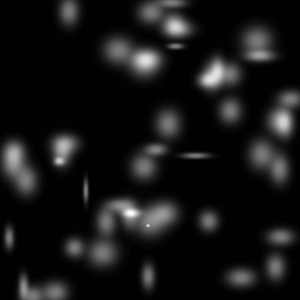
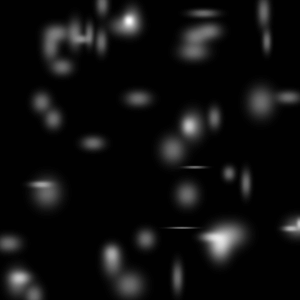
Adding the copied files

diff --git a/dev/NMR_spectrum_generator_v2_Copy1.py b/dev/NMR_spectrum_generator_v2_Copy1.py
@@ -1,0 +1,63 @@
+import numpy as np
+import matplotlib.pyplot as plt
+from matplotlib.backends.backend_agg import FigureCanvasAgg
+
+'the function that creates peaks'
+def peak_generator(points=100, limits=[0,10], grid_density=1000, mode="default", variance=1.0): #As I understand it, we have 100 points, which we will when generating the peaks; however, I am not too sure about the limits. Do the limits constraint the points within that specific graph? Also, could you explain what does "mode" variable actually do?
+    x = np.linspace(limits[0], limits[1], grid_density) 
+    y = np.linspace(limits[0], limits[1], grid_density) #In these two lanes we are creating x and y axis, correct? 
+    x, y = np.meshgrid(x, y)
+    z = np.zeros((points, x.shape[1], x.shape[1])) '(shape, type, order)' #why did you set type and order to x.shape[1]
+    if mode == "default": #why is it so important to have mode in default? 
+        intv = limits[1] - limits[0] #setting the interval, that is the difference of two limits?
+        means = intv*np.random.sample((points, 2)) + limits[0]' multiplying the interval with the numpy.random.sample(100,1) + limits[0]' #by doing so, do we just spread the 100 points we have around the graph? why do we need to add limits to this function?
+        variscale = intv*variance/100. 
+        varis = variscale*np.random.sample((points, 2)) #how is varis different from means? in other words, what does varis do and what does means specifically do in this function?
+        for i, (cn, vn) in enumerate(zip(means, varis)): 
+            fac = ((x - cn[0])**2/(2*vn[0])) + ((y - cn[1])**2/(2*vn[1])) #would it be okay for you to write what the following variables are: cn and vn? 
+            z[i,:,:] = np.exp(-fac)
+        z = np.sum(z,axis=0)
+    else:
+        pass
+    return x, y, z, means, varis
+
+'function that generates spectra'
+def spectra_generator(x, y, z, centers, figsize=3, dpi=100, specfile="100.png", resfile="100-r.png"): 'dpi = dots pe inch = how many poxels the figure comprises
+    fig = plt.figure(figsize=(figsize,figsize), dpi=dpi,frameon=False)'figsize = (3,3)
+    canvas = FigureCanvasAgg(fig) #are such things as FigureCanvasAgg, add_plot are part of the matplolib? 
+    ax = fig.add_subplot(111)
+    fig.tight_layout()
+    fig.subplots_adjust(left=0.0,right=1.0,top=1.0,bottom=0.0,hspace=0.0,wspace=0.0)
+    ax.axes.get_xaxis().set_visible(False) 
+    ax.axes.get_yaxis().set_visible(False)
+    ax.contourf(x,y,z, 100, cmap="gray")
+    ax.axis('off')
+    fig.savefig(specfile, bbox_inches='tight', pad_inches=0.0)
+    fig.canvas.draw()
+    s, (width, height) = canvas.print_to_buffer()
+    X = np.frombuffer(s, np.uint8).reshape((height, width, 4))
+    X = X[:,:,1]
+    plt.close()
+    #setting the graph 
+    
+    fig1 = plt.figure(figsize=(figsize,figsize), dpi=dpi,frameon=False)
+    canvas1 = FigureCanvasAgg(fig1)
+    ax1 = fig1.add_subplot(111)
+    fig1.tight_layout()
+    fig1.subplots_adjust(left=0.0,right=1.0,top=1.0,bottom=0.0,hspace=0.0,wspace=0.0)
+    ax1.axes.get_xaxis().set_visible(False)
+    ax1.axes.get_yaxis().set_visible(False)
+    ax1.plot(centers[:,0], centers[:,1],'ko',markersize=2)
+    ax1.axis('off')
+    fig1.savefig(resfile, bbox_inches='tight', pad_inches=0.0)
+    fig1.canvas.draw()
+    s, (width, height) = canvas1.print_to_buffer()
+    X1 = np.frombuffer(s, np.uint8).reshape((height, width, 4))
+    X1 = X1[:,:,1]
+    plt.close()
+    return X, X1
+
+"""plt.ioff()
+xx, yy, zz, pps = peak_generator(points=50,limits=[0.5,9.5], grid_density=500)
+image_array, peak_array = spectra_generator(xx,yy,zz,pps)
+"""
